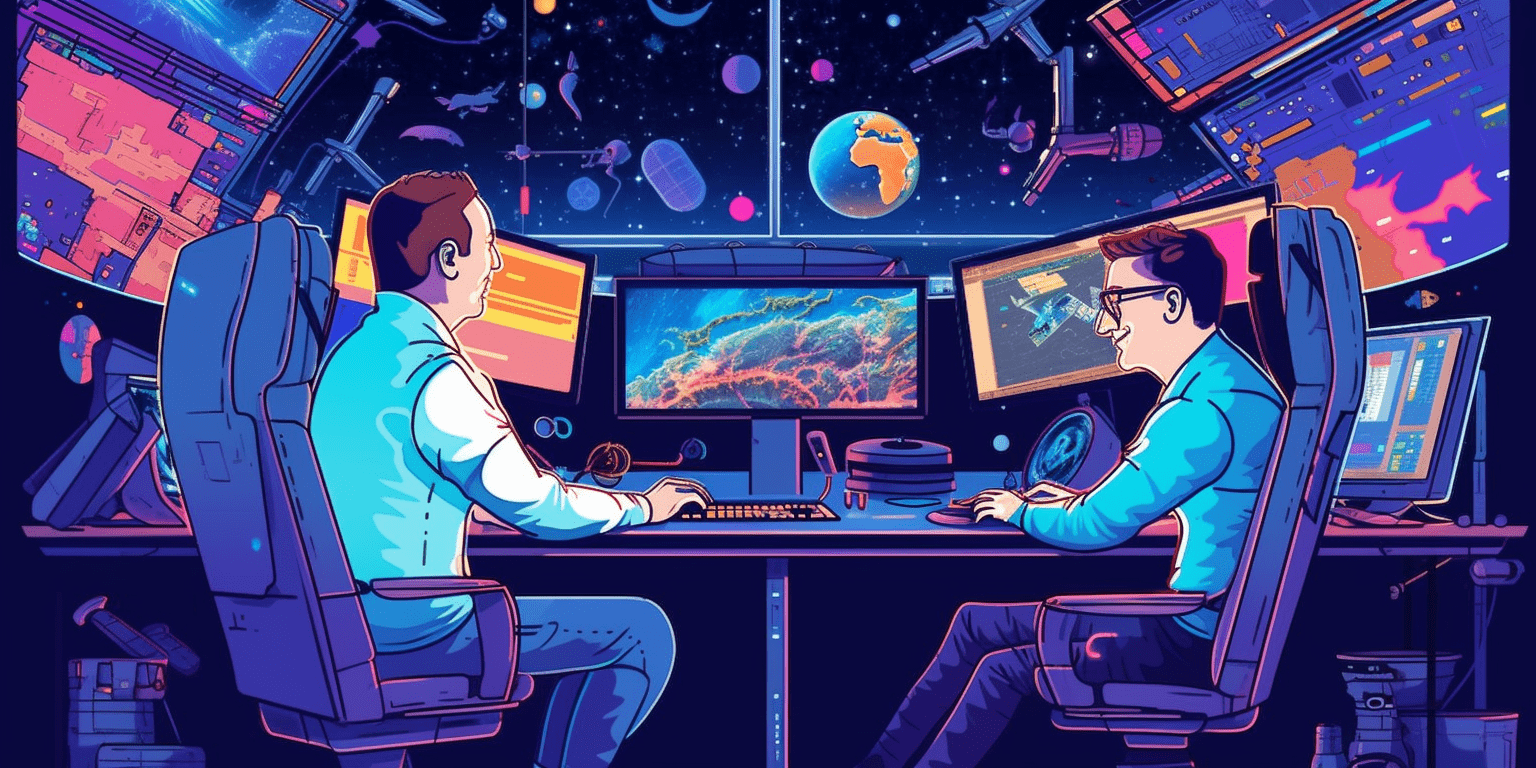
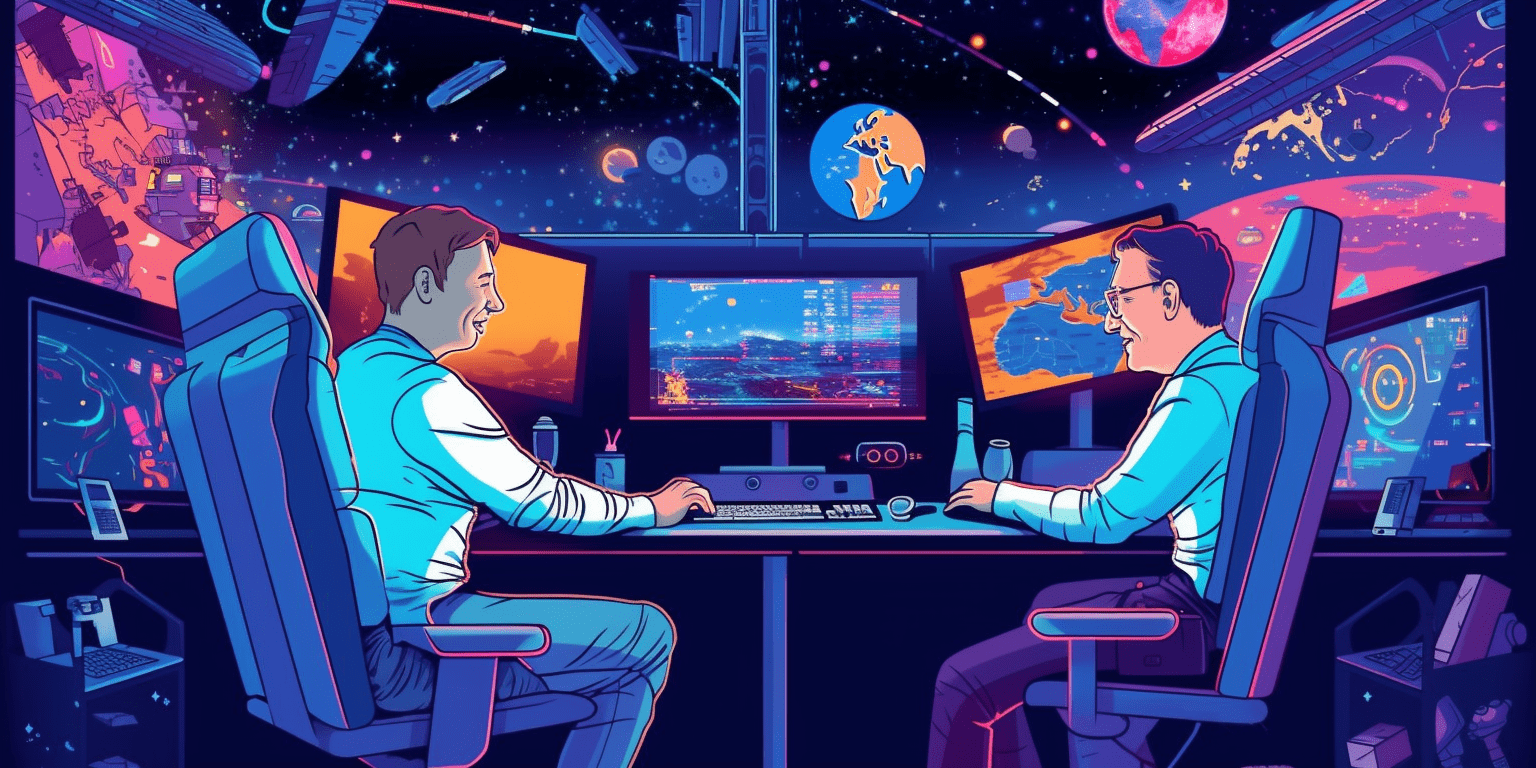
chore: replace and remove old imgs, clean text

diff --git a/client/src/sections/home/World.jsx b/client/src/sections/home/World.jsx
@@ -39,10 +39,10 @@ const World = () => (
           <img src={people_03} alt="people" className="w-full h-full" />
         </div>
         <div className="absolute bottom-[55%] left-[55%] lg:w-[350px] lg:h-[350px] w-[250px] h-[250px] p-[6px] rounded-full">
-          <img src={map_card_1} alt="people" className="w-full h-full" />
+          <img src={map_card_1} alt="card on map" className="w-full h-full" />
         </div>
         <div className="absolute top-[25%] right-[55%] lg:w-[400px] lg:h-[400px] w-[300px] h-[300px] p-[6px] rounded-full">
-          <img src={map_card_2} alt="people" className="w-full h-full" />
+          <img src={map_card_2} alt="card on map" className="w-full h-full" />
         </div>
       </motion.div>
     </motion.div>

diff --git a/client/src/constants/index.js b/client/src/constants/index.js
@@ -96,7 +96,7 @@ export const reviews = [
     imgUrl: product_pc,
     title: 'Dreamcore Custom PCs',
     subtitle:
-        'Superb rig and customer service. After looking at so many custom PC build companies, I decided to choose Dreamcore as they already have a solid reputation here, moreover prices are one of the most competitive. They are very responsive and helpful and I highly recommend...',
+        'Superb rig and customer service. After looking at so many custom PC build companies, chose Dreamcore as they have a solid reputation, moreover prices are one of the most competitive. They are very responsive and I highly recommend...',
   },
   {
     imgUrl: product_monitor,

diff --git a/client/src/assets/home/index.js b/client/src/assets/home/index.js
@@ -1,6 +1,6 @@
 import search from './search.svg';
 import menu from './menu.svg';
-import cover from './cover.jpg';
+import cover from './cover.png';
 import stamp from './stamp.png';
 import arrow_down from './arrow-down.svg';
 import setup_01 from './setup-01.png';
@@ -21,7 +21,7 @@ import people_02 from './people-02.png';
 import people_03 from './people-03.png';
 import arrow from './arrow.svg';
 import product_keyboard from './product-keyboard.png';
-import product_pc from './product-pc.jpeg';
+import product_pc from './product-pc.png';
 import product_monitor from './product-monitor.jpeg';
 import testimonial_banner from './testimonial-banner.png';
 

diff --git a/client/src/components/home/ExploreCard.jsx b/client/src/components/home/ExploreCard.jsx
@@ -20,7 +20,7 @@ const ExploreCard = ({ id, imgUrl, name, title, index, active, handleClick }) =>
     ) : (
       <div className="absolute bottom-0 p-8 justify-start w-full flex-col bg-[rgba(0,0,0,0.5)] rounded-b-[24px]">
         <div className={`${styles.flexCenter} w-[60px] h-[60px] rounded-[24px] glassmorphism mb-[16px]`}>
-          <img src={eye} alt="headset" className="w-1/2 h-1/2 object-contain" />
+          <img src={eye} alt="view icon" className="w-1/2 h-1/2 object-contain" />
         </div>
         <p className="font-normal text-[16px] leading-[20px] text-white uppercase">
           By @{name}

diff --git a/client/src/components/home/ReviewCard.jsx b/client/src/components/home/ReviewCard.jsx
@@ -10,7 +10,7 @@ const ReviewCard = ({ imgUrl, title, subtitle, index }) => (
     variants={fadeIn('up', 'spring', index * 0.5, 1)}
     className="flex md:flex-row flex-col gap-4"
   >
-    <img src={imgUrl} alt="planet-01" className="md:w-[270px] w-full h-[250px] rounded-[32px] object-cover" />
+    <img src={imgUrl} alt="product" className="md:w-[270px] w-full h-[250px] rounded-[32px] object-cover" />
     <div className="w-full flex justify-between items-center">
       <div className="flex-1 md:ml-[62px] flex flex-col max-w-[650px]">
         <div className="flex justify-between">

diff --git a/client/src/sections/home/FeaturesHow.jsx b/client/src/sections/home/FeaturesHow.jsx
@@ -20,7 +20,7 @@ const FeaturesHow = () => (
         className={`flex-1 ${styles.flexCenter}`}
 
       >
-        <img src={setup_iso_1} alt="get-started" className="w-[90%] h-[90%] object-contain" />
+        <img src={setup_iso_1} alt="desk setup isometric" className="w-[90%] h-[90%] object-contain" />
       </motion.div>
       <motion.div
         variants={fadeIn('left', 'tween', 0.2, 1)}

diff --git a/client/src/sections/home/FeaturesWhy.jsx b/client/src/sections/home/FeaturesWhy.jsx
@@ -35,7 +35,7 @@ const FeaturesWhy = () => (
         className={`flex-1 ${styles.flexCenter}`}
 
       >
-        <img src={setup_iso_2} alt="whats-new" className="w-[90%] h-[90%] object-contain" />
+        <img src={setup_iso_2} alt="desk setup isometric" className="w-[90%] h-[90%] object-contain" />
       </motion.div>
     </motion.div>
   </section>

diff --git a/README.md b/README.md
@@ -13,6 +13,7 @@ A rating and review website for computer desk setups (gaming/trading/programming
 ### Tools
 
 - [SVG Icons from SVG Repo](https://www.svgrepo.com/)
+- [AI-generated images from Midjourney](https://www.midjourney.com/)
 
 ### Tutorials
 
